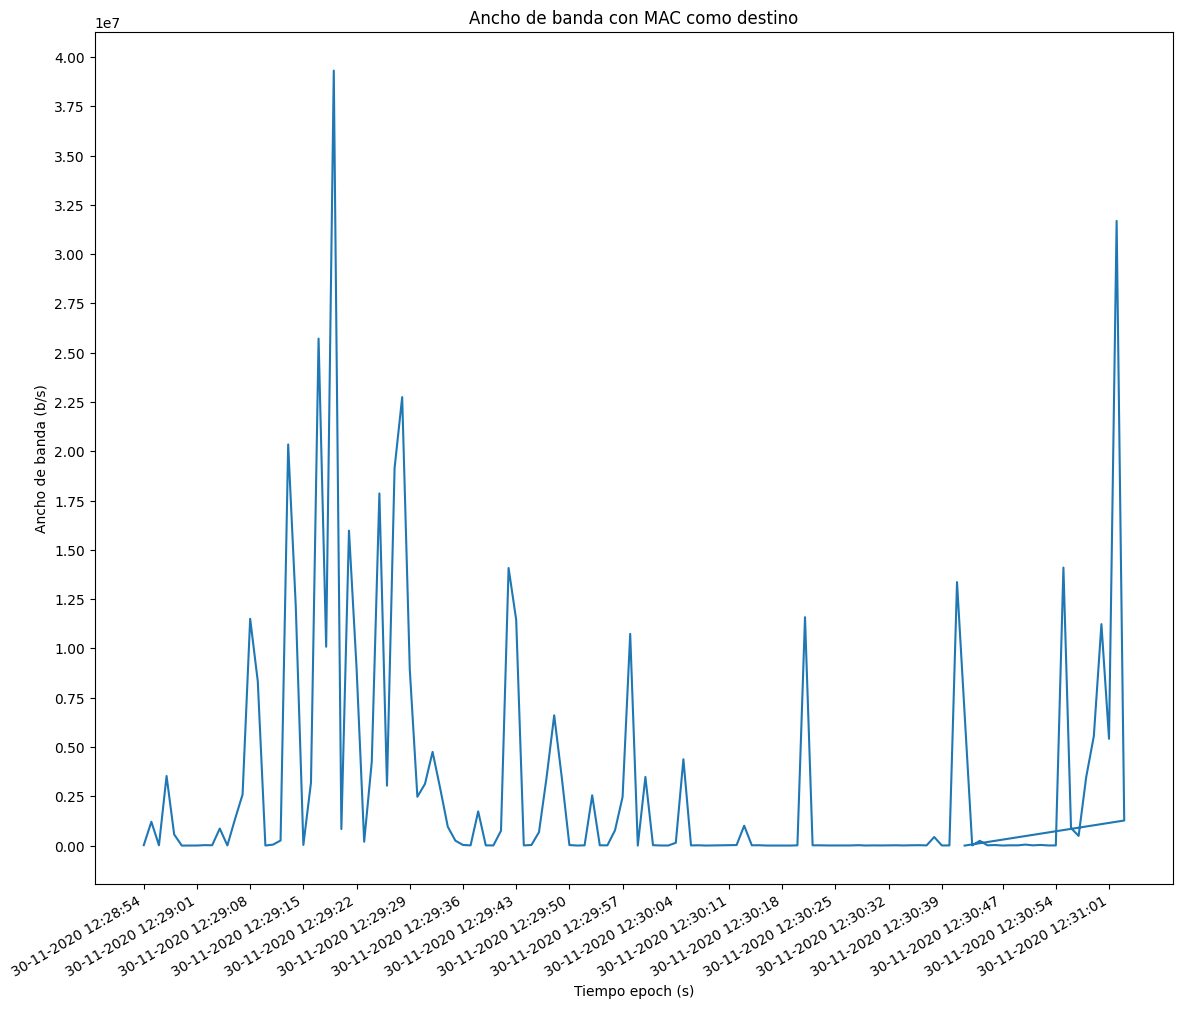
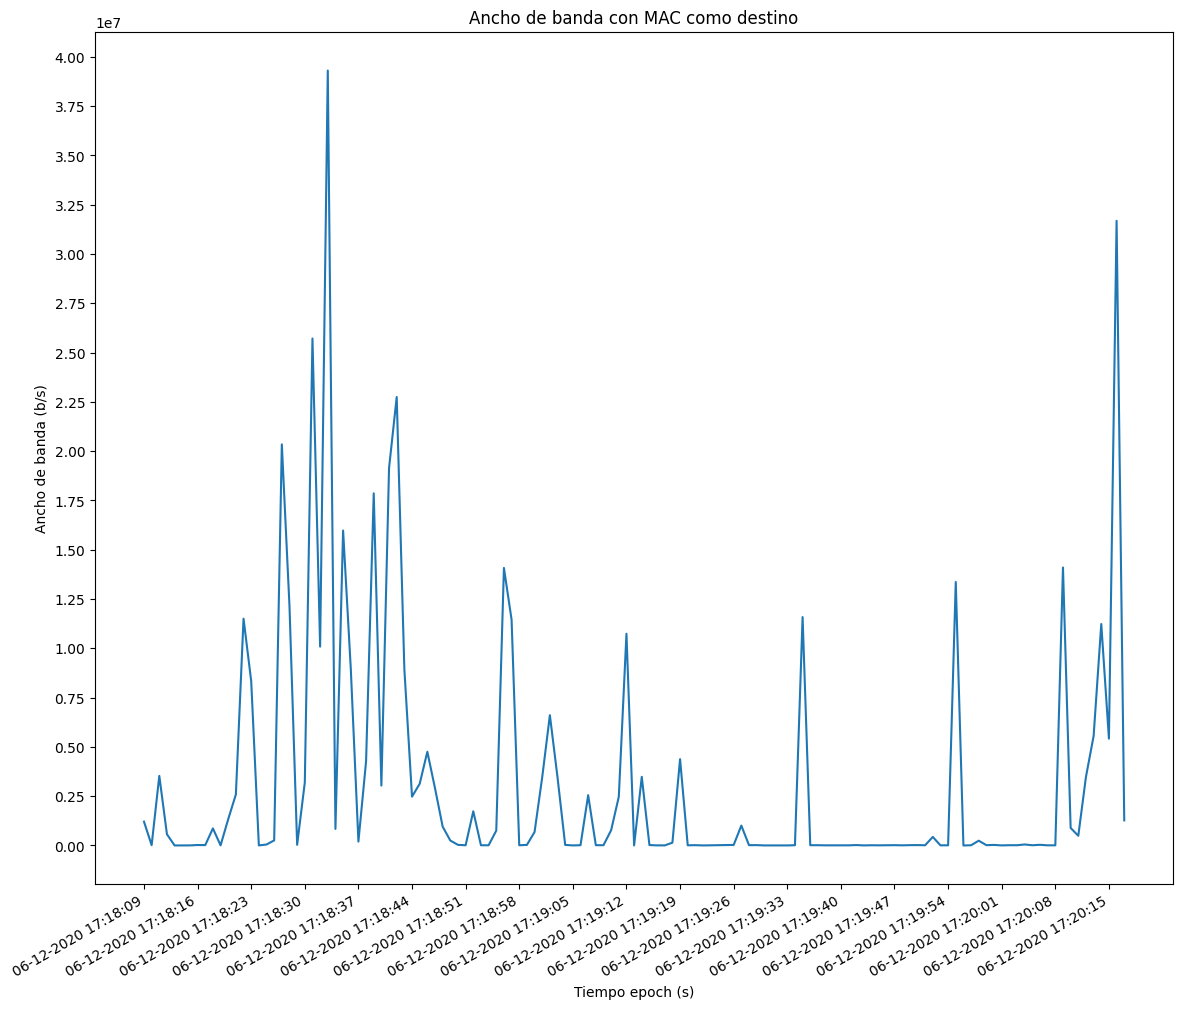
Los ceros

diff --git a/P3/practica3.py b/P3/practica3.py
@@ -242,18 +242,18 @@ def cuentaTopPaquetes(salida):
 '''
 def tsharkToSerie(salida):
     data = dict()
+    count = 0
     for line in salida.split('\n'):
         if line != '':
             elems = line.split('\t')
             sec = math.floor(float(elems[0]))
+            if count == 0:
+                count = sec
+            while count < sec:
+                count += 1
+                data[count] = 0
             if sec in data:
                 data[sec] += int(elems[1])*8
-            else:
-                data[sec] = int(elems[1])*8
-
-    for i in range(min(data.keys()), max(data.keys()) + 1):
-        if i not in data:
-            data[i] = 0
 
     return data
 
